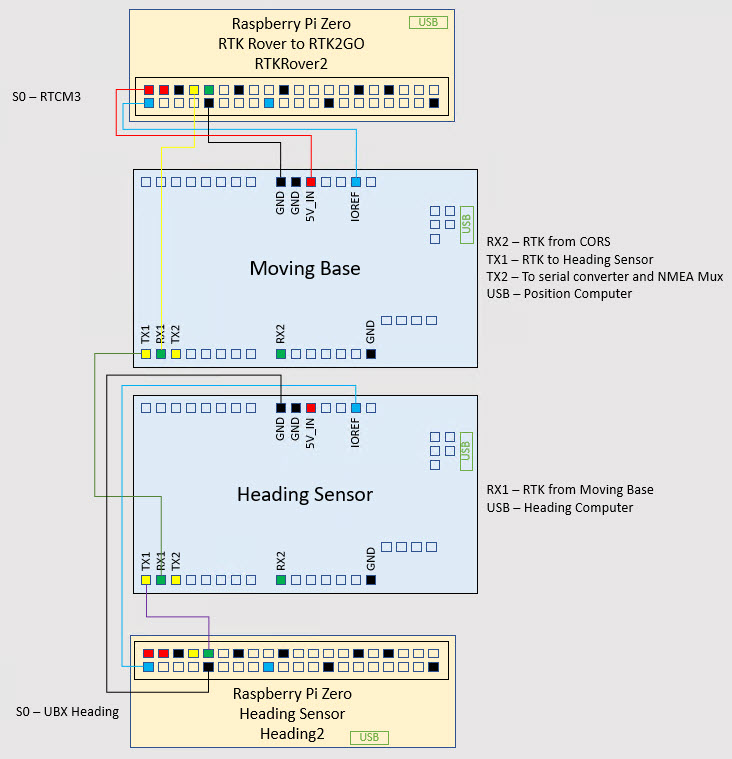
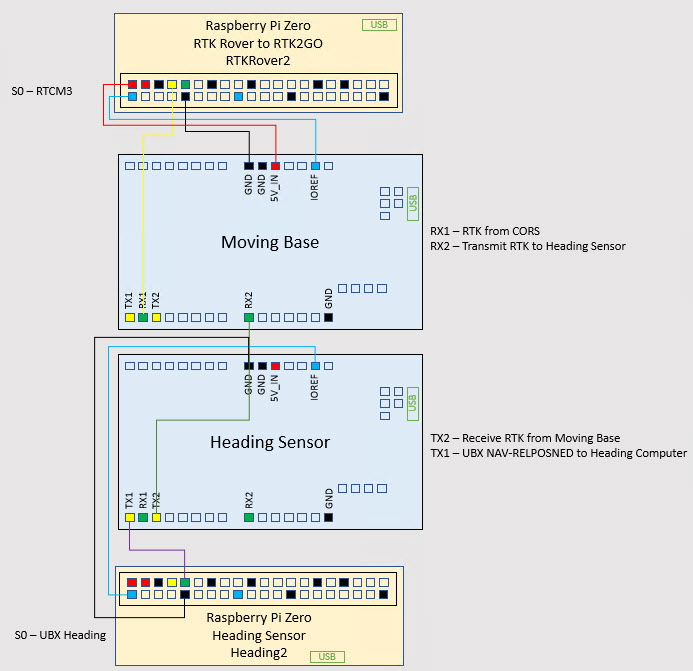
Added Ref Implementation

diff --git a/Recipe4/readme.md b/Recipe4/readme.md
@@ -26,12 +26,25 @@ A full diagram of a working system is shown below.
 
 ![](RPi.jpg)
 
-The topmost RPi (RTKRover2) takes an NTRIP feed from Wi-Fi (rtk2go.com) and uses str2str to feed it through a serial port to the Moving Base.
+The topmost RPi (RTKRover2) takes an NTRIP feed from Wi-Fi (rtk2go.com) and uses str2str to feed it through a serial port (/dev/ttyS0) to the Moving Base.
 Take a look at the accompanying **autoexec.sh** file.
-The Moving Base is using the generic configuration from Ardusimple, but is has RTK accuracy due to the RTCM feed from RTKRover2.
+I'm using a Pi Zero with a serial card, so I have a TX/RX light and i can see when this is working.
 
-By default, TX1 on the Moving Base is configured for the RTCM sentences required for Moving Base.
-This is connected to RX1 on Heading Sensor, which is configured with the generic 1Hz configuration from Ardusimple.
+The Moving Base is using the generic configuration from Ardusimple, but is has RTK accuracy due to the RTCM feed from RTKRover2.
+We need to use UART2 for RTCM from Moving Base to UART2 on the Heading Sensor.
+
+This is bizarre, but on the Ardusimple boards: 
+- TX2 conects to UART2 RX
+- RX2 conects to UART2 TX
+
+I know the wiring looks backwards, but check https://www.ardusimple.com/simplertk2b-hookup-guide/
+
+Connect RX2 on the Moving Base (which transmits!) to TX2 on the Heading Sensor (which receives!). 
+
+Helpfully, as they are connected: 
+- The GNSS->XBEE light on the Moving Base shows activity.
+- The XBEE->GNSS light on the Heading Sensor shows synchronised activity.
+
 I can use U-Centre to verify a good heading reading.
 The heading reading is only available in UBX protocol, this is fed to another RPi (Heading2) for parsing and translation.
 The code for this is yet to be added to this repo!
